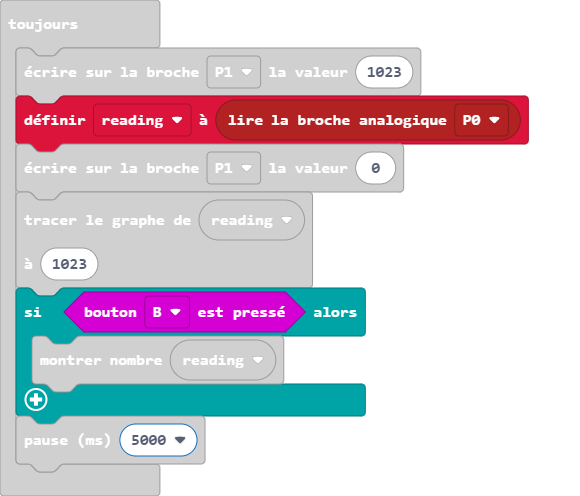
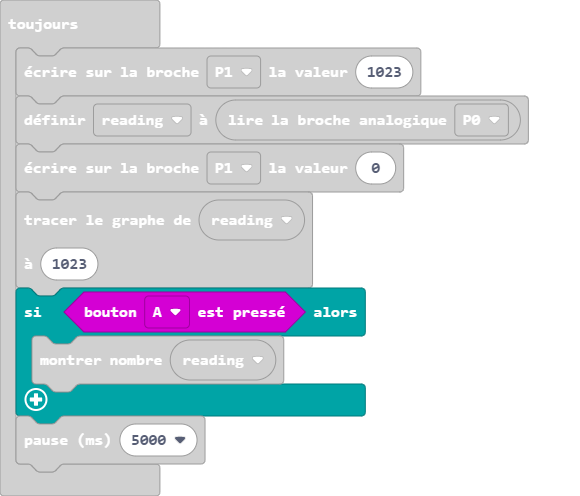
Mise à jour main.blocks, main.ts

diff --git a/main.ts b/main.ts
@@ -8,7 +8,7 @@ basic.forever(function () {
     reading,
     1023
     )
-    if (input.buttonIsPressed(Button.B)) {
+    if (input.buttonIsPressed(Button.A)) {
         basic.showNumber(reading)
     }
     basic.pause(5000)
